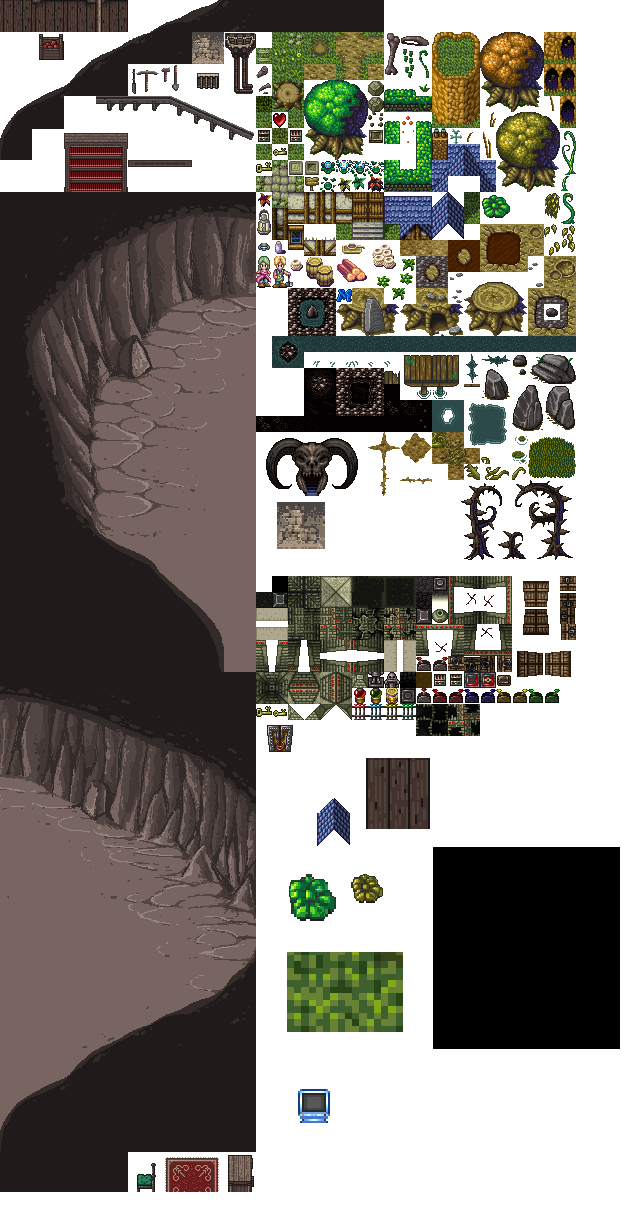
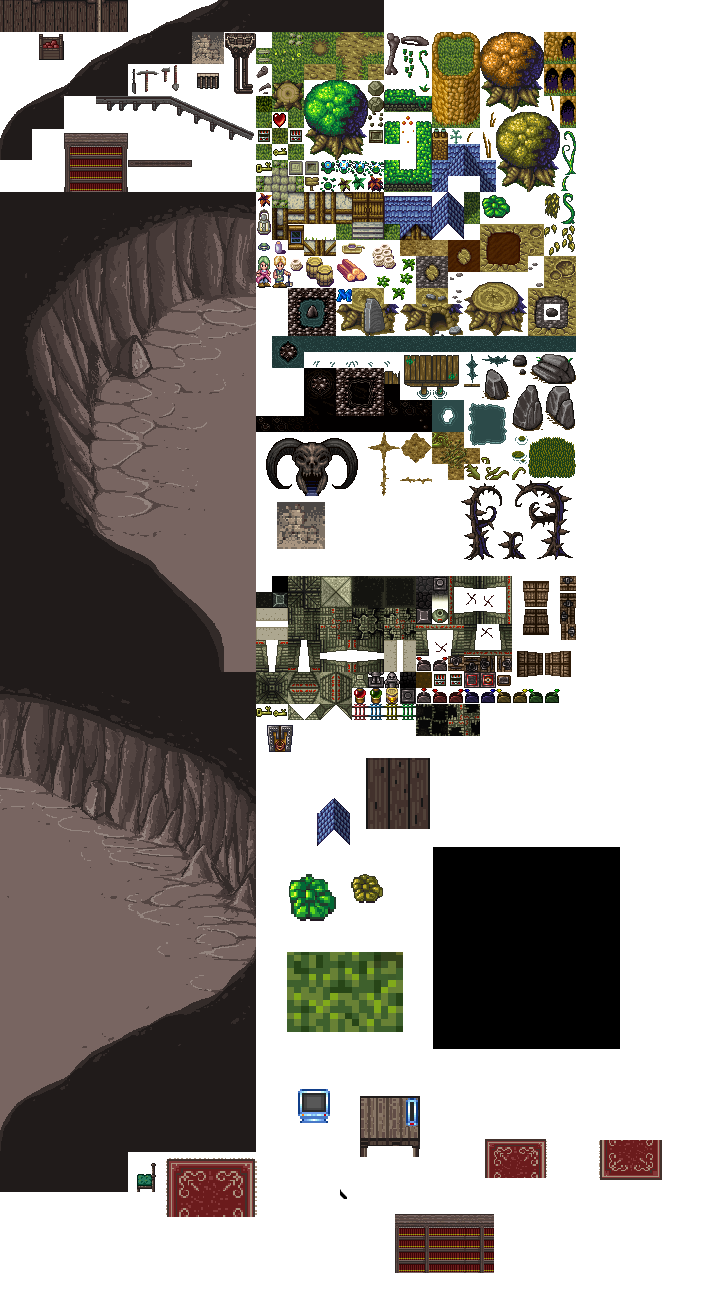
MAIS UM UP
=D

diff --git a/teste/configs.py b/teste/configs.py
@@ -1,8 +1,9 @@
 largura = 1000
 altura = 800
 FPS = 60
-player_layer = 3
-block_layer = 2
+player_layer = 4
+block_layer = 3
+embblock_layer = 2
 fundo_layer = 1
 void_layer = 5
 speed = 10
@@ -10,20 +11,20 @@ tile_size = 64
 MAPA_MUNDO = [
 ['V','V', 'V', 'V', 'V', 'V', 'V', 'V', 'V', 'V', 'V', 'V', 'V', 'V', 'V', 'V', 'V', 'V', 'V', 'V', 'V', 'V', 'V', 'V', 'V','V','V', 'V', 'V', 'V', 'V', 'V', 'V', 'V', 'V', 'V', 'V', 'V', 'V', 'V', 'V', 'V', 'V', 'V', 'V', 'V', 'V', 'V', 'V', 'V', 'V', 'V'],
 ['V','x','x', 'x', 'x', 'x', 'x', 'x', 'x', 'x', 'x', 'x', 'x', 'x', 'x', 'x', 'x', 'x', 'x', 'x', 'x', 'x', 'x', 'x', 'x', 'x','V', 'V', 'V', 'V', 'V', 'V', 'V', 'V', 'V', 'V', 'V', 'V', 'V', 'V', 'V', 'V', 'V', 'V', 'V', 'V', 'V', 'V', 'V', 'V', 'V', 'V'],
+['V',' ',' ', ' ', ' ', ' ', ' ', ' ', ' ', ' ', ' ', ' ', ' ', ' ', ' ', ' ', ' ', ' ', ' ', ' ', ' ', ' ', ' ', ' ', ' ', 'x','V', 'V', 'V', 'V', 'V', 'V', 'V', 'V', 'V', 'V', 'V', 'V', 'V', 'V', 'V', 'V', 'V', 'V', 'V', 'V', 'V', 'V', 'V', 'V', 'V', 'V'],
 ['V','x',' ', ' ', ' ', ' ', ' ', ' ', ' ', ' ', ' ', ' ', ' ', ' ', ' ', ' ', ' ', ' ', ' ', ' ', ' ', ' ', ' ', ' ', ' ', 'x','V', 'V', 'V', 'V', 'V', 'V', 'V', 'V', 'V', 'V', 'V', 'V', 'V', 'V', 'V', 'V', 'V', 'V', 'V', 'V', 'V', 'V', 'V', 'V', 'V', 'V'],
 ['V','x',' ', ' ', ' ', ' ', ' ', ' ', ' ', ' ', ' ', ' ', ' ', ' ', ' ', ' ', ' ', ' ', ' ', ' ', ' ', ' ', ' ', ' ', ' ', 'x','V', 'V', 'V', 'V', 'V', 'V', 'V', 'V', 'V', 'V', 'V', 'V', 'V', 'V', 'V', 'V', 'V', 'V', 'V', 'V', 'V', 'V', 'V', 'V', 'V', 'V'],
 ['V','x',' ', ' ', ' ', ' ', ' ', ' ', ' ', ' ', ' ', ' ', ' ', ' ', ' ', ' ', ' ', ' ', ' ', ' ', ' ', ' ', ' ', ' ', ' ', 'x','V', 'V', 'V', 'V', 'V', 'V', 'V', 'V', 'V', 'V', 'V', 'V', 'V', 'V', 'V', 'V', 'V', 'V', 'V', 'V', 'V', 'V', 'V', 'V', 'V', 'V'],
-['V','x',' ', ' ', ' ', ' ', ' ', ' ', ' ', ' ', ' ', ' ', ' ', ' ', ' ', ' ', ' ', ' ', ' ', ' ', ' ', ' ', ' ', ' ', ' ', 'x','V', 'V', 'V', 'V', 'V', 'V', 'V', 'V', 'V', 'V', 'V', 'V', 'V', 'V', 'V', 'V', 'V', 'V', 'V', 'V', 'V', 'V', 'V', 'V', 'V', 'V'],
-['V','x',' ', ' ', ' ', ' ', ' ', ' ', ' ', ' ', ' ', ' ', ' ', ' ', ' ', ' ', ' ', ' ', ' ', ' ', ' ', ' ', ' ', ' ', ' ', 'x','V', 'V', 'V', 'V', 'V', 'V', 'V', 'V', 'V', 'V', 'V', 'V', 'V', 'V', 'V', 'V', 'V', 'V', 'V', 'V', 'V', 'V', 'V', 'V', 'V', 'V'],
+['V','x',' ', ' ', ' ', ' ', ' ', ' ', 'P', ' ', ' ', ' ', ' ', ' ', ' ', ' ', ' ', ' ', ' ', ' ', ' ', ' ', ' ', ' ', ' ', 'x','V', 'V', 'V', 'V', 'V', 'V', 'V', 'V', 'V', 'V', 'V', 'V', 'V', 'V', 'V', 'V', 'V', 'V', 'V', 'V', 'V', 'V', 'V', 'V', 'V', 'V'],
 ['V','x',' ', ' ', ' ', ' ', ' ', ' ', ' ', ' ', ' ', ' ', ' ', ' ', ' ', ' ', ' ', ' ', ' ', ' ', ' ', ' ', ' ', ' ', ' ', 'x','V', 'V', 'V', 'V', 'V', 'V', 'V', 'V', 'V', 'V', 'V', 'V', 'V', 'V', 'V', 'V', 'V', 'V', 'V', 'V', 'V', 'V', 'V', 'V', 'V', 'V', 'V', 'V', 'V', 'V', 'V', 'V', 'V', 'V', 'V'],
-['V','x',' ', ' ', ' ', ' ', ' ', ' ', ' ', ' ', ' ', ' ', ' ', ' ', ' ', ' ', ' ', ' ', ' ', ' ', ' ', ' ', ' ', ' ', ' ', 'x','V', 'V', 'V', 'V', 'V', 'V', 'V', 'V', 'V', 'V', 'V', 'V', 'V', 'V', 'V', 'V', 'V', 'V', 'V', 'V', 'V', 'V', 'V', 'V', 'V', 'V', 'C', 'C', 'C', 'C', 'C', 'C', 'CM', 'C', 'V'],
+['V','x',' ', ' ', ' ', ' ', ' ', ' ', ' ', ' ', ' ', ' ', ' ', ' ', ' ', ' ', ' ', ' ', ' ', ' ', ' ', ' ', ' ', ' ', ' ', 'x','V', 'V', 'V', 'V', 'V', 'V', 'V', 'V', 'V', 'V', 'V', 'V', 'V', 'V', 'V', 'V', 'V', 'V', 'V', 'V', 'V', 'V', 'V', 'V', 'V', 'V', 'A', 'A', 'A', 'A', 'A', 'C', 'CM', 'C', 'V'],
 ['V','x',' ', ' ', ' ', ' ', ' ', ' ', ' ', ' ', ' ', ' ', ' ', ' ', ' ', ' ', ' ', ' ', ' ', ' ', ' ', ' ', ' ', ' ', ' ', 'x','V', 'V', 'V', 'V', 'V', 'V', 'V', 'V', 'V', 'V', 'V', 'V', 'V', 'V', 'V', 'V', 'V', 'V', 'V', 'V', 'V', 'V', 'V', 'V', 'V', 'V', 'C', 'C', 'C', 'C', 'C', 'C', 'C', 'C', 'V'],
 ['V','x',' ', ' ', ' ', ' ', ' ', ' ', ' ', ' ', ' ', ' ', ' ', ' ', ' ', ' ', ' ', ' ', ' ', ' ', ' ', ' ', ' ', ' ', ' ', 'x','V', 'V', 'V', 'V', 'V', 'V', 'V', 'V', 'V', 'V', 'V', 'V', 'V', 'V', 'V', 'V', 'V', 'V', 'V', 'V', 'V', 'V', 'V', 'V', 'V', 'V', 'C', 'C', 'C', 'C', 'C', 'C', 'C', 'C', 'V'],
 ['V','x',' ', ' ', ' ', ' ', ' ', ' ', ' ', ' ', ' ', ' ', ' ', ' ', ' ', ' ', ' ', ' ', ' ', ' ', ' ', ' ', ' ', ' ', ' ', 'x','V', 'V', 'V', 'V', 'V', 'V', 'V', 'V', 'V', 'V', 'V', 'V', 'V', 'V', 'V', 'V', 'V', 'V', 'V', 'V', 'V', 'V', 'V', 'V', 'V', 'V', 'C', 'C', 'C', 'C', 'C', 'C', 'C', 'C', 'V'],
-['V','x',' ', ' ', ' ', ' ', ' ', ' ', ' ', ' ', ' ', ' ', ' ', 'P', ' ', ' ', ' ', ' ', ' ', ' ', ' ', ' ', ' ', ' ', ' ', 'x','V', 'V', 'V', 'V', 'V', 'V', 'V', 'V', 'V', 'V', 'V', 'V', 'V', 'V', 'V', 'V', 'V', 'V', 'V', 'V', 'V', 'V', 'V', 'V', 'V', 'V', 'C', 'C', 'C', 'C', 'C', 'C', 'C', 'C', 'V'],
 ['V','x',' ', ' ', ' ', ' ', ' ', ' ', ' ', ' ', ' ', ' ', ' ', ' ', ' ', ' ', ' ', ' ', ' ', ' ', ' ', ' ', ' ', ' ', ' ', 'x','V', 'V', 'V', 'V', 'V', 'V', 'V', 'V', 'V', 'V', 'V', 'V', 'V', 'V', 'V', 'V', 'V', 'V', 'V', 'V', 'V', 'V', 'V', 'V', 'V', 'V', 'C', 'C', 'C', 'C', 'C', 'C', 'C', 'C', 'V'],
-['V','x',' ', ' ', ' ', ' ', ' ', ' ', ' ', ' ', ' ', ' ', ' ', ' ', ' ', ' ', ' ', ' ', ' ', ' ', ' ', ' ', ' ', ' ', ' ', 'x','V', 'V', 'V', 'V', 'V', 'V', 'V', 'V', 'V', 'V', 'V', 'V', 'V', 'V', 'V', 'V', 'V', 'V', 'V', 'V', 'V', 'V', 'V', 'V', 'V', 'V', 'C', 'C', 'C', 'C', 'C', 'C', 'C', 'C', 'V'],
-['V','x',' ', ' ', ' ', ' ', ' ', ' ', ' ', ' ', ' ', ' ', ' ', ' ', ' ', ' ', ' ', ' ', ' ', ' ', ' ', ' ', ' ', ' ', ' ', 'x','V', 'V', 'V', 'V', 'V', 'V', 'V', 'V', 'V', 'V', 'V', 'V', 'V', 'V', 'V', 'V', 'V', 'V', 'V', 'V', 'V', 'V', 'V', 'V', 'V', 'V', 'V', 'V', 'V', 'V', 'V', 'V', 'V', 'V', 'V'],
+['V','x',' ', ' ', ' ', ' ', ' ', ' ', ' ', ' ', ' ', ' ', ' ', ' ', ' ', ' ', ' ', ' ', ' ', ' ', ' ', ' ', ' ', ' ', ' ', ' ','V', 'V', 'V', 'V', 'V', 'V', 'V', 'V', 'V', 'V', 'V', 'V', 'V', 'V', 'V', 'V', 'V', 'V', 'V', 'V', 'V', 'V', 'V', 'V', 'V', 'V', 'C', 'C', 'C', 'C', 'C', 'C', 'C', 'C', 'V'],
+['V','x',' ', ' ', ' ', ' ', ' ', ' ', ' ', ' ', ' ', ' ', ' ', ' ', ' ', ' ', ' ', ' ', ' ', ' ', ' ', ' ', ' ', ' ', ' ', ' ','V', 'V', 'V', 'V', 'V', 'V', 'V', 'V', 'V', 'V', 'V', 'V', 'V', 'V', 'V', 'V', 'V', 'V', 'V', 'V', 'V', 'V', 'V', 'V', 'V', 'V', 'C', 'C', 'C', 'C', 'C', 'C', 'C', 'C', 'V'],
+['V','x',' ', ' ', ' ', ' ', ' ', ' ', ' ', ' ', ' ', ' ', ' ', ' ', ' ', ' ', ' ', ' ', ' ', ' ', ' ', ' ', ' ', ' ', ' ', ' ','V', 'V', 'V', 'V', 'V', 'V', 'V', 'V', 'V', 'V', 'V', 'V', 'V', 'V', 'V', 'V', 'V', 'V', 'V', 'V', 'V', 'V', 'V', 'V', 'V', 'V', 'V', 'V', 'V', 'V', 'V', 'V', 'V', 'V', 'V'],
 ['V','x',' ', ' ', ' ', ' ', ' ', ' ', ' ', ' ', ' ', ' ', ' ', ' ', ' ', ' ', ' ', ' ', ' ', ' ', ' ', ' ', ' ', ' ', ' ', 'x','V', 'V', 'V', 'V', 'V', 'V', 'V', 'V', 'V', 'V', 'V', 'V', 'V', 'V', 'V', 'V', 'V', 'V', 'V', 'V', 'V', 'V', 'V', 'V', 'V', 'V'],
 ['V','x',' ', ' ', ' ', ' ', ' ', ' ', ' ', ' ', ' ', ' ', ' ', ' ', ' ', ' ', ' ', ' ', ' ', ' ', ' ', ' ', ' ', ' ', ' ', 'x','V', 'V', 'V', 'V', 'V', 'V', 'V', 'V', 'V', 'V', 'V', 'V', 'V', 'V', 'V', 'V', 'V', 'V', 'V', 'V', 'V', 'V', 'V', 'V', 'V', 'V'],
 ['V','x',' ', ' ', ' ', ' ', ' ', ' ', ' ', ' ', ' ', ' ', ' ', ' ', ' ', ' ', ' ', ' ', ' ', ' ', ' ', ' ', ' ', ' ', ' ', 'x','V', 'V', 'V', 'V', 'V', 'V', 'V', 'V', 'V', 'V', 'V', 'V', 'V', 'V', 'V', 'V', 'V', 'V', 'V', 'V', 'V', 'V', 'V', 'V', 'V', 'V'],

diff --git a/teste/sprites.py b/teste/sprites.py
@@ -64,7 +64,9 @@ class Player(pg.sprite.Sprite):
         self.movement()
 
         self.rect.x += self.x_change
+        self.colisao('x')
         self.rect.y += self.y_change
+        self.colisao('y')
 
         self.x_change = 0
         self.y_change = 0
@@ -91,10 +93,32 @@ class Player(pg.sprite.Sprite):
             for sprite in self.game.all_sprites:
                 sprite.rect.y -=  speed
             self.y_change += speed
+
+    def colisao(self, direcao):
+        if direcao == 'x':
+            hits = pg.sprite.spritecollide(self, self.game.blocks, False)
+            if hits:
+                if self.x_change > 0:
+                    self.rect.x = hits[0].rect.left - self.rect.width
+                    for sprite in self.game.all_sprites:
+                        sprite.rect.x += speed
+                if self.x_change < 0:
+                    self.rect.x = hits[0].rect.right
+                    for sprite in self.game.all_sprites:
+                        sprite.rect.x -= speed
+        if direcao == 'y':
+            hits = pg.sprite.spritecollide(self, self.game.blocks, False)
+            if hits:
+                if self.y_change > 0:
+                    self.rect.y = hits[0].rect.top - self.rect.height
+                    for sprite in self.game.all_sprites:
+                        sprite.rect.y += speed
+                if self.y_change < 0:
+                    self.rect.y = hits[0].rect.bottom
+                    for sprite in self.game.all_sprites:
+                        sprite.rect.y -= speed
+            
                     
-    
-    def run(self):
-        self.obstaculos_visiveis.draw(self.mostrar_chao)
 
 class Arvore(pg.sprite.Sprite):
 
@@ -172,7 +196,25 @@ class Casa_chao(pg.sprite.Sprite):
         self.rect.y = self.y
 
 
-class monitor(pg.sprite.Sprite):
+class Monitor(pg.sprite.Sprite):
+    def __init__(self, game, x, y):
+        self.game = game
+        self._layer = block_layer
+        self.groups = self.game.all_sprites, self.game.blocks
+        pg.sprite.Sprite.__init__(self, self.groups)
+
+        self.x = x * tile_size
+        self.y = y * tile_size
+        self.width = tile_size
+        self.height = tile_size
+
+        self.image  = self.game.terreno_spritesheet.get_sprite(297, 1088 , self.width, self.height)
+
+        self.rect = self.image.get_rect()
+        self.rect.x = self.x
+        self.rect.y = self.y
+
+class Mesa_do_monitor(pg.sprite.Sprite):
     def __init__(self, game, x, y):
         self.game = game
         self._layer = block_layer
@@ -184,7 +226,26 @@ class monitor(pg.sprite.Sprite):
         self.width = tile_size
         self.height = tile_size
 
-        self.image  = self.game.terreno_spritesheet.get_sprite(297, 1088 , self.width, self.height)
+        self.image  = self.game.terreno_spritesheet.get_sprite(358, 1095 , self.width, self.height)
+
+        self.rect = self.image.get_rect()
+        self.rect.x = self.x
+        self.rect.y = self.y
+
+
+class Armario(pg.sprite.Sprite):
+    def __init__(self, game, x, y):
+        self.game = game
+        self._layer = block_layer
+        self.groups = self.game.all_sprites, self.game.blocks
+        pg.sprite.Sprite.__init__(self, self.groups)
+
+        self.x = x * tile_size
+        self.y = y * tile_size
+        self.width = tile_size
+        self.height = tile_size
+
+        self.image  = self.game.terreno_spritesheet.get_sprite(395, 1214 , self.width, self.height)
 
         self.rect = self.image.get_rect()
         self.rect.x = self.x

diff --git a/teste/main.py b/teste/main.py
@@ -27,7 +27,13 @@ class Game:
                     Casa_chao(self, j, i)
                 if column == 'CM':
                     Casa_chao(self, j, i)
-                    monitor(self, j, i)
+                    Mesa_do_monitor(self, j, i)
+                    Monitor(self, j, i)
+                if column == "P":
+                    Player(self, j, i)
+                if column == "A":
+                    Casa_chao(self, j, i)
+                    Armario(self, j, i)
 
         
     def new(self):
@@ -37,7 +43,6 @@ class Game:
         self.blocks = pg.sprite.LayeredUpdates()
         self.enemies = pg.sprite.LayeredUpdates()
         self.attacks = pg.sprite.LayeredUpdates()
-        self.player = Player(self, 7, 6)
         self.criar_mapa()
 
     def eventos(self):
@@ -59,7 +64,6 @@ class Game:
         while self.sair:
             self.eventos()
             self.atualizacoes()
-            self.player.run()
         self.rodando = False
 
 game = Game()
